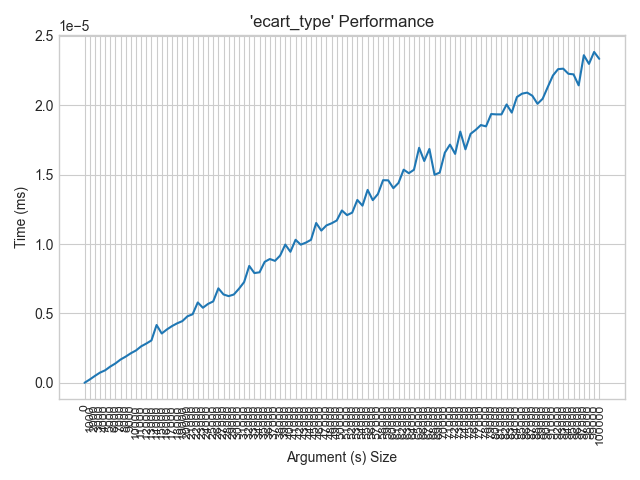
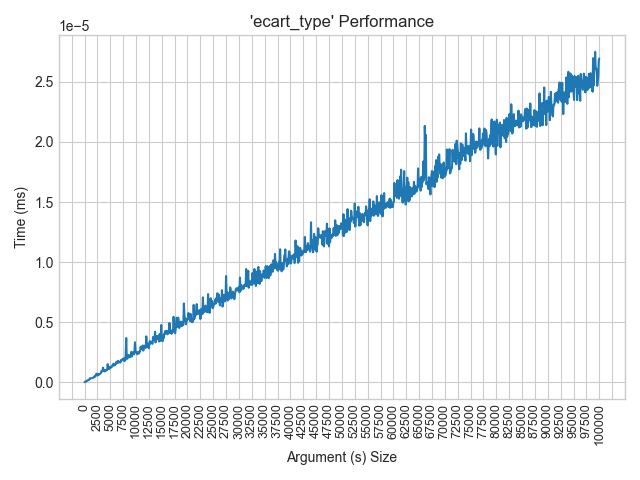
ajout dautres tests de performances

Changed region(s): [[0.0312, 0.0625, 0.9688, 0.9375], [0.0625, 0.0625, 0.0938, 0.0938]]

diff --git a/app/perf_funcs.py b/app/perf_funcs.py
@@ -41,12 +41,12 @@ nw_args = [
 # funcs_performance([ lev_rec, lev_dp, lev ], args_arr=lev_args, sizes=[0])
 
 ###################### MOYENNE ######################
-average_args = arg_generator(N=100000, stride=150, type=NUMBERS, lower=1000, upper=100000, variant_arg_pos=[0])
+average_args = arg_generator(N=100000, stride=150, type=NUMBERS, lower=1000, upper=100000, variant_arg_pos=[0])[1:]
 func_performance(moyenne, args_arr=average_args, sizes=[0], tick_spacing=100)
 
 
 ###################### MEDIANE ######################
-median_args = arg_generator(N=100000, stride=100, type=NUMBERS, lower=1000, upper=100000, variant_arg_pos=[0])
+median_args = arg_generator(N=100000, stride=100, type=NUMBERS, lower=1000, upper=100000, variant_arg_pos=[0])[1:]
 func_performance(mediane, args_arr=median_args, sizes=[0], tick_spacing=25)
 
 
@@ -61,20 +61,29 @@ plot_multi_graph(perf_graph, ["quart1", "quart3"], tick_spacing=20)
 
 
 ###################### PROPORTION ######################
-prop_args = arg_generator(N=100000, stride=100, type=STRINGS, samples=NUCLEOTIDES, variant_arg_pos=[0], static_args=[NUCLEOTIDES])
+prop_args = arg_generator(N=100000, stride=100, type=STRINGS, samples=NUCLEOTIDES, variant_arg_pos=[0], static_args=[NUCLEOTIDES])[1:]
 func_performance(proportions, args_arr=prop_args, sizes=[0], tick_spacing=25)
 
 
 ###################### VARIANCE ######################
-variance_args = arg_generator(N=100000, stride=100, type=NUMBERS, lower=1000, upper=100000, variant_arg_pos=[0])
+variance_args = arg_generator(N=100000, stride=100, type=NUMBERS, lower=1000, upper=100000, variant_arg_pos=[0])[1:]
 func_performance(variance, args_arr=variance_args, sizes=[0], tick_spacing=25)
 
 
 ###################### ECART-TYPE ######################
-ecatt_args = arg_generator(N=100000, stride=100, type=NUMBERS, lower=1000, upper=100000, variant_arg_pos=[0])
+ecatt_args = arg_generator(N=100000, stride=100, type=NUMBERS, lower=1000, upper=100000, variant_arg_pos=[0])[1:]
 func_performance(ecart_type, args_arr=ecatt_args, sizes=[0], tick_spacing=25)
 
 
-###################### ECART-TYPE ######################
-interquart_args = arg_generator(N=100000, stride=100, type=NUMBERS, lower=1000, upper=100000, variant_arg_pos=[0])
+###################### INTERQUARTILE ######################
+interquart_args = arg_generator(N=100000, stride=100, type=NUMBERS, lower=1000, upper=100000, variant_arg_pos=[0])[1:]
 func_performance(intervalle_interquartile, args_arr=interquart_args, sizes=[0], tick_spacing=25)
+
+
+###################### CODONS ######################
+
+
+###################### LEVENSHTEIN ######################
+
+
+###################### NEEDLEMAN ######################

diff --git a/tests/test_needlman.py b/tests/test_needlman.py
@@ -2,6 +2,7 @@ import pytest
 from src.needleman import *
 from collections import * 
 from Bio import pairwise2
+from src.globals import *
 
 # Test cases for needleman (Q7)
 TEST_CASES_V1 = [
@@ -10,8 +11,8 @@ TEST_CASES_V1 = [
     [ "ATCGGAG", "ATGGCAA",  [1, -1, -1] ],
     [ "AUUGGAAUUCCCG", "UUGGUUCCG",  [1, -1, 0] ],
     [ "NNKKYYYRNYYKGAA", "NNAKYYRNYYKGA",  [2, -5, -10] ],
-    [ "31415", "31017",  [1, 0, 0] ],
-    [ "HOTDOG", "HOTCAT",  [0, 0, 0] ],
+    #[ "31415", "31017",  [1, 0, 0] ],
+    #[ "HOTDOG", "HOTCAT",  [0, 0, 0] ],
 ]
 
 # Test cases for needleman all (both versions) (Q9/Q7)
@@ -22,15 +23,16 @@ TEST_CASES_V2 = [
     [ "GAAT", "GGAT", [1, 0, 0] ],
     ["AUUGGAAUUCCCG", "UUGGUUCCG", [1, -1, 0]],
     ["NNKKYYYRNYYKGAA", "NNAKYYRNYYKGA", [2, -5, -10]],
-    ["31415", "31017", [1, 0, 0]],
-    ["HOTDOG", "HOTCAT", [0, 0, 0]],
+    # ["31415", "31017", [1, 0, 0]],
+    # ["HOTDOG", "HOTCAT", [0, 0, 0]],
 ]
 
 TEST_CASES_V3 = [
     [ "ABC", "ABC", [1, 2, 3, 1, 2, 3, 1, 2, 3, 0], "ABC" ],
-    ["AUUGGAAUUCCCG", "UUGGUUCCG", [5, 4, 3, 2, 2, 3, 4, 5, 9, 8, 7, 6, 6, 7, 8, 9, 10], NUCLEOTIDES],
-    ["NNKKYYYRNYYKGAA", "NNAKYYRNYYKGA", [5, 4, 3, 2, 2, 3, 4, 5, 9, 8, 7, 6, 6, 7, 8, 9, 5, 4, 3, 2, 2, 3, 4, 5, 9, 8, 7, 6, 6, 7, 8, 9, 0, 0, 0, 0, "AGKNRY"],
-    ["31415", "31017", [5, 4, 3, 2, 2, 3, 4, 5, 9, 8, 7, 6, 6, 7, 8, 9, 4, 5, 6, 7, 7, 6, 5, 4, 0, 5, 7, 10, 20, 1, 2, 4, 2, 3, 8, 9,-1], "013457"],
+    # ["NGNYGG", "NNYGG", [1, 2, 3, 2, 0, 3, 0, 0, 0, -2], "NYG"],
+    # ["AUUGGAAUUCCCG", "UUGGUUCCG", [5, 4, 3, 2, 2, 3, 4, 5, 9, 8, 7, 6, 6, 7, 8, 9, -10], NUCLEOTIDES],
+    # ["NNKKYYYRNYYKGAA", "NNAKYYRNYYKGA", [5, 4, 3, 2, 2, 3, 4, 5, 9, 8, 7, 6, 6, 7, 8, 9, 5, 4, 3, 2, 2, 3, 4, 5, 9, 8, 7, 6, 6, 7, 8, 9, 0, 0, 0, 0, -1], "AGKNRY"],
+    # ["31415", "31017", [5, 4, 3, 2, 2, 3, 4, 5, 9, 8, 7, 6, 6, 7, 8, 9, 4, 5, 6, 7, 7, 6, 5, 4, 0, 5, 7, 10, 20, 1, 2, 4, 2, 3, 8, 9,-1], "013457"],
 ]
 
 def test_needlman():
